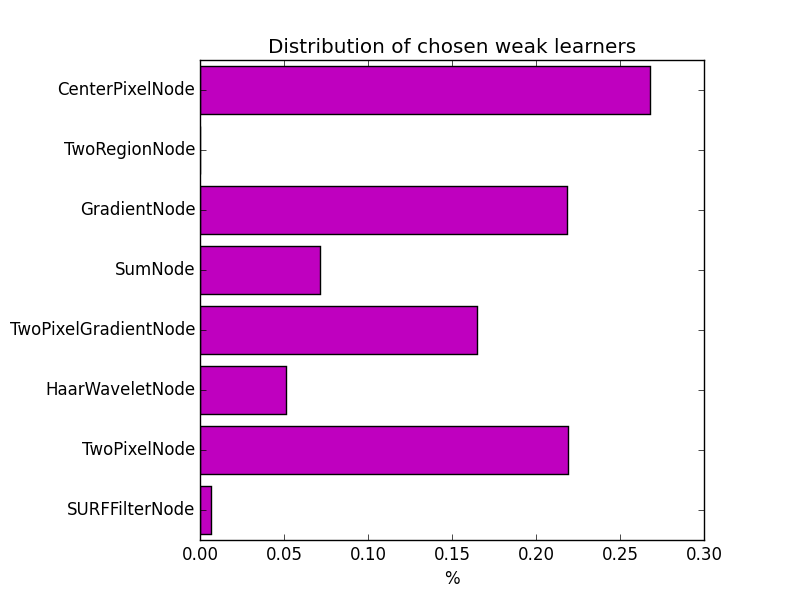
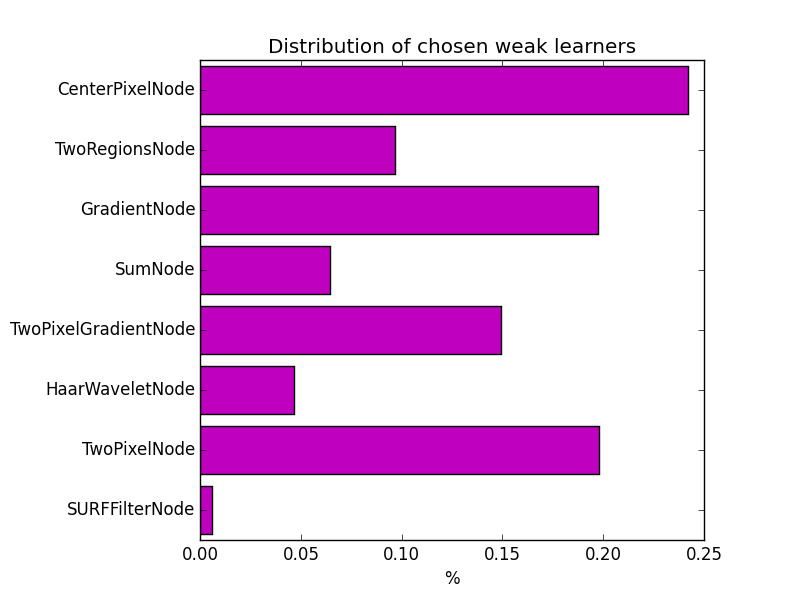
fix weak learner distribution

diff --git a/doc/report/results.tex b/doc/report/results.tex
@@ -79,7 +79,8 @@ For the image based accuracy on the other hand, the impact is higher.
 \end{figure}
 
 Figure~\ref{fig:result_images_best_xacc} shows the output images corresponding to
-the forest with the best cross validation accuracy ($\approx 86.5\%$) and Figure~\ref{fig:result_images_best_iacc} those corresponding to the forest with the best
+the forest with the best cross validation accuracy ($\approx 86.5\%$) and Figure 
+\ref{fig:result_images_best_iacc} those corresponding to the forest with the best
 accuracy on the test image ($\approx 79.9\%$). From a human point of view the latter
 looks better.
 
@@ -99,6 +100,13 @@ looks better.
 		\centering
 		\includegraphics[width=\textwidth]{{{images/0.865-1435707507-0021-diff}}}
 		\caption{Absolute difference to the ground truth}
+	\end{subfigure}
+
+	\begin{subfigure}{0.3\textwidth}
+		\centering
+		\includegraphics[width=\textwidth]{{{images/0.865-1435707507-0021-segm}}}
+		\caption{Segmentation}
+		\label{subfig:result_images_best_xacc_segm}
 	\end{subfigure}
 	\caption{Forest outputs with 50 trees, depth 15 and 150 feature tests.}
 	\label{fig:result_images_best_xacc}
@@ -121,23 +129,15 @@ looks better.
 		\includegraphics[width=\textwidth]{{{images/0.843-1435685565-0013-diff}}}
 		\caption{Absolute difference to the ground truth}
 	\end{subfigure}
+
+	\begin{subfigure}{0.3\textwidth}
+		\centering
+		\includegraphics[width=\textwidth]{{{images/0.843-1435685565-0013-segm}}}
+		\caption{Segmentation}
+		\label{subfig:result_images_best_iacc_segm}
+	\end{subfigure}
 	\caption{Forest outputs with 10 trees, depth 12 and 150 feature tests.}
 	\label{fig:result_images_best_iacc}
-\end{figure}
-
-\begin{figure}
-  \centering
-  \begin{subfigure}[t]{0.3\textwidth}
-    \centering
-    \includegraphics[width=\textwidth]{{{images/0.865-1435707507-0021-segm}}}
-  \end{subfigure}
-  \hspace{0.5cm}
-  \begin{subfigure}[t]{0.3\textwidth}
-    \centering
-    \includegraphics[width=\textwidth]{{{images/0.843-1435685565-0013-segm}}}
-  \end{subfigure}
-  \caption{Example segmentations using the output from above. Simple morphological operations are used to slightly improve the result.}
-  \label{fig:example_segmentation}
 \end{figure}
 
 The simple distinction between border and cell pixels works quite well though the forest
@@ -145,3 +145,10 @@ tends to classify near-border pixels as borders as well. Most of the differences
 ground truth are due to those misclassifications. As we can see in the output probabilities,
 the forest is also able to distinguish between border and nucleus pixels. However, it tends
 to classify the borders of the nucleuses as cell borders which is not optimal. 
+
+To give an outlook of what could be done with the output of the forest, a simplistic segmentation
+based on morphological operations and the findContours
+\footnote{\url{http://docs.opencv.org/modules/imgproc/doc/structural_analysis_and_shape_descriptors.html?highlight=findcontours\#findcontours}}
+simplementation of OpenCV was implemented.
+The results of the segmentations are shown in figures \ref{subfig:result_images_best_xacc_segm}
+and \ref{subfig:result_images_best_iacc_segm}. 

diff --git a/doc/report/conclusion.tex b/doc/report/conclusion.tex
@@ -2,8 +2,7 @@
 \label{sec:conclusion}
 
 First it can be stated, that already simple tests (such as CenterPixel) lead to reasonable results. But to improve the result significantly more complicated tests are necessary. Figure \ref{fig:learner_dist} shows the distribution of chosen weak learners during an average training. The most important weak learner is still CenterPixel
-followed by two other very simple learners: GradientNode, TwoPixelNode. The more sophisticated learners HaarWavelet and SURFFilter are chosen rarely. The TwoRegionNode
-gets never chosen so it could have been omitted as well.
+followed by two other very simple learners: GradientNode, TwoPixelNode. The more sophisticated learners HaarWavelet and SURFFilter are chosen rarely.
 
 \begin{figure}
 	\centering
